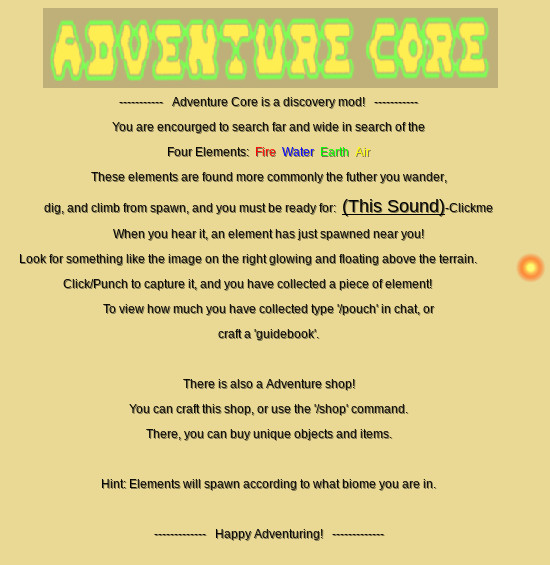
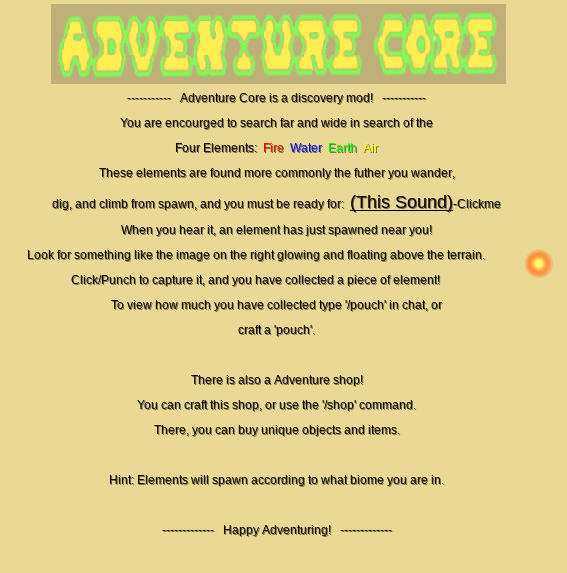
Fix up Readme and Formspec typo

diff --git a/README.md b/README.md
@@ -5,35 +5,43 @@ Explainations are better left for the mod:
 
 ![In-Game Guidebook](readme_assets/guidebook.jpg)
 
-### Quick description:
+## Elements
 
-- 4 Elements, each are a floating entity in game world, physicaly interact.
-- These spawn as player walks throughout world. More spawn on newly generated chunks, especially farther from spawn. 
-- They spawn by biome in default. Otherwise, they spawn anywhere. They are right-clicked to capture. 
+- 4 Elements, each are a floating entity in game world, and are clicked on by players
+- These spawn as player walks throughout world. More spawn farther from spawn. 
+- They spawn by biome in default. Otherwise, they spawn anywhere.
 - They also make sound, this is how you normally find them. They produce a small amount of light. 
 
-Used in a crafting shop kind of block. It lets a player search by name.
-The player then is able to "buy" that node using the stacked elements (which are tracked by player).
+## Shop
 
-All players can (setting) start with the guidebook, and pouch. One explains the system, the other displays the current total number of elements a player has.
+Either a chat command (/shop) and/or a craftable block (all set via settings)
 
-------Default
+Players "spend" elements to purchase adventure items/nodes. These are ideally things only obtainable through the adventure shop.
 
-In default, the player crafts the adventure_shop via normal crafting. This can also be disabled via setting, and a server owner can decide where to place the shop(s) via creative mode. 
-In default, the player can also craft the adventure_guidebook, and adventure_purse. 
 
---------
+## Starting Items
+All players can (via a setting) start with the guidebook, and pouch. One explains the system, the other displays the current total number of elements a player has.
 
-Without default, the player can do a command to bring up the formspec for both purse and guidebook:
-/adventure_guidebook
-/adventure_purse
 
-Without default, the shop can be crafted with the /make_shop command, which requires 10 of each element to create. 
+## Pouch and Guidebook
 
---------
-For both, when a player captures one element, the player gets a small text dialog showing them how much of element they have captured.
 
-Adventure core ships with some built-in nodes a player can create in the shop, as well as a (if enabled) craftable shop node.
+#### If default (minetest game) is present:
+
+- the player crafts the adventure_shop via normal crafting. This can also be disabled via setting, and a server owner can decide where to place the shop(s) via creative mode. 
+- the player can also craft the adventure_guidebook, and adventure_pouch. 
+
+### if default is *not* present:
+
+The player can do a command to bring up the formspec for both pouch and guidebook:
+/guidebook
+/pouch
+
+In this mode, the shop can be crafted (if enabled) with the /make_shop command, which requires 10 of each element to create. 
+
+## Built-in Nodes
+
+*Adventure core* ships with some built-in nodes a player can create in the shop, as well as a (if enabled) craftable *shop node*.
 
 Built-in ones, 6 static mesh nodes:
 1. A small bridge
@@ -44,9 +52,24 @@ Built-in ones, 6 static mesh nodes:
 6. Axe Stump
 
 ------
-Adventure core works by a player registering a node_name and element requirement, The node inventory image from the node_def/item_def is used as the picture, except for nodes with a mesh drawtype, these are displayed with a viewable mesh!
 
+## Integrating with adventure core
 
+To register your nodes and items with the adventure core shop, merely *depend* on adventure_core in your depends.txt, and use the following function to register:
+```
+adv_core.register_object(object_name, lfire, lwater, learth, lair)
+```
+Where object name would be: "default:apple" etc. and lfire,lwater... are the element costs. 
 
+There are other functions that expose the element system so you can use it for your own rewards system:
+```
+adv_core.spawn_element(element_type, pos) --Element_type can be: "fire" "water" "earth" "air"
 
+adv_core.reward_player(name, fire, water, earth, air, notify) --notify is 'true' or 'false', and will tell the player when the action occurs
+
+adv_core.take_from_player(name, fire, water, earth, air, notify)
+
+adv_core.player_can_afford(name, fire, water, earth, air) --returns true if they can
+
+adv_core.player_can_afford_object(name, object_name) --returns true if they can
 
